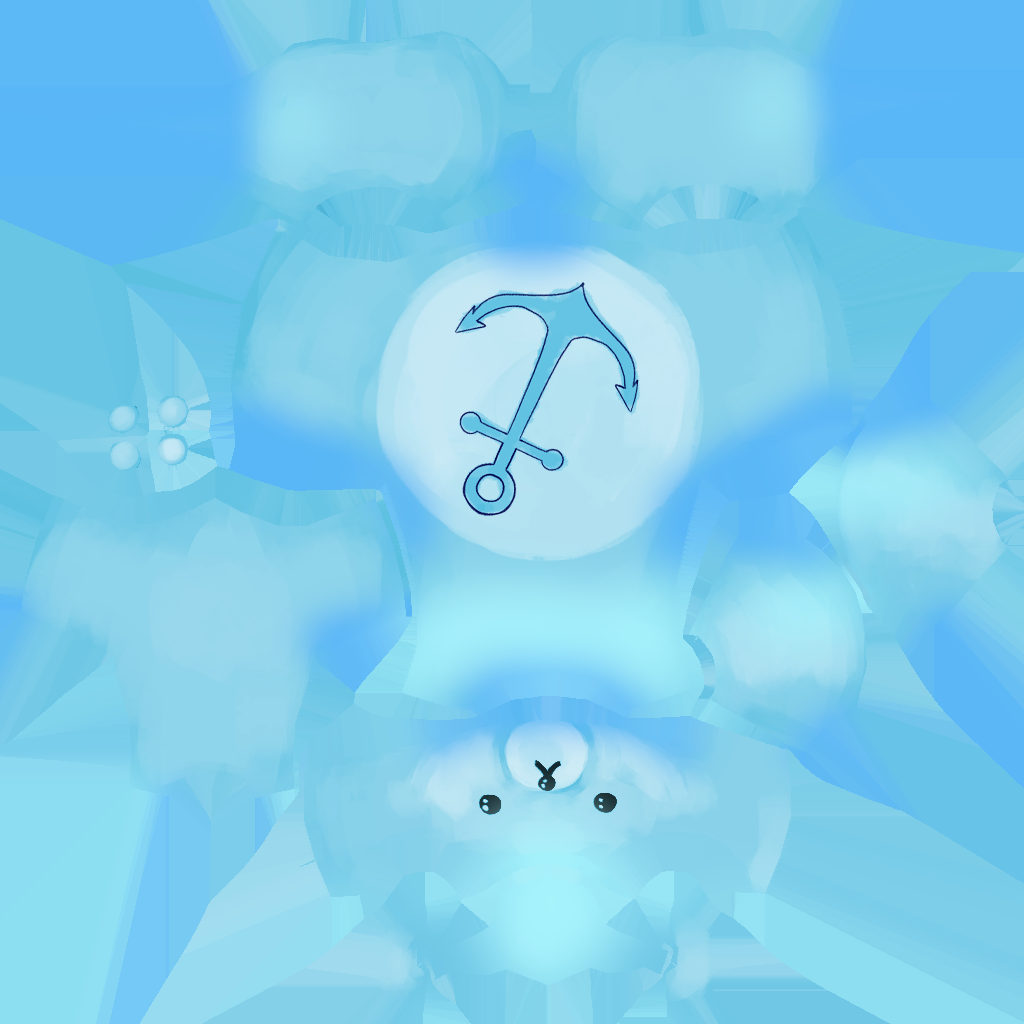
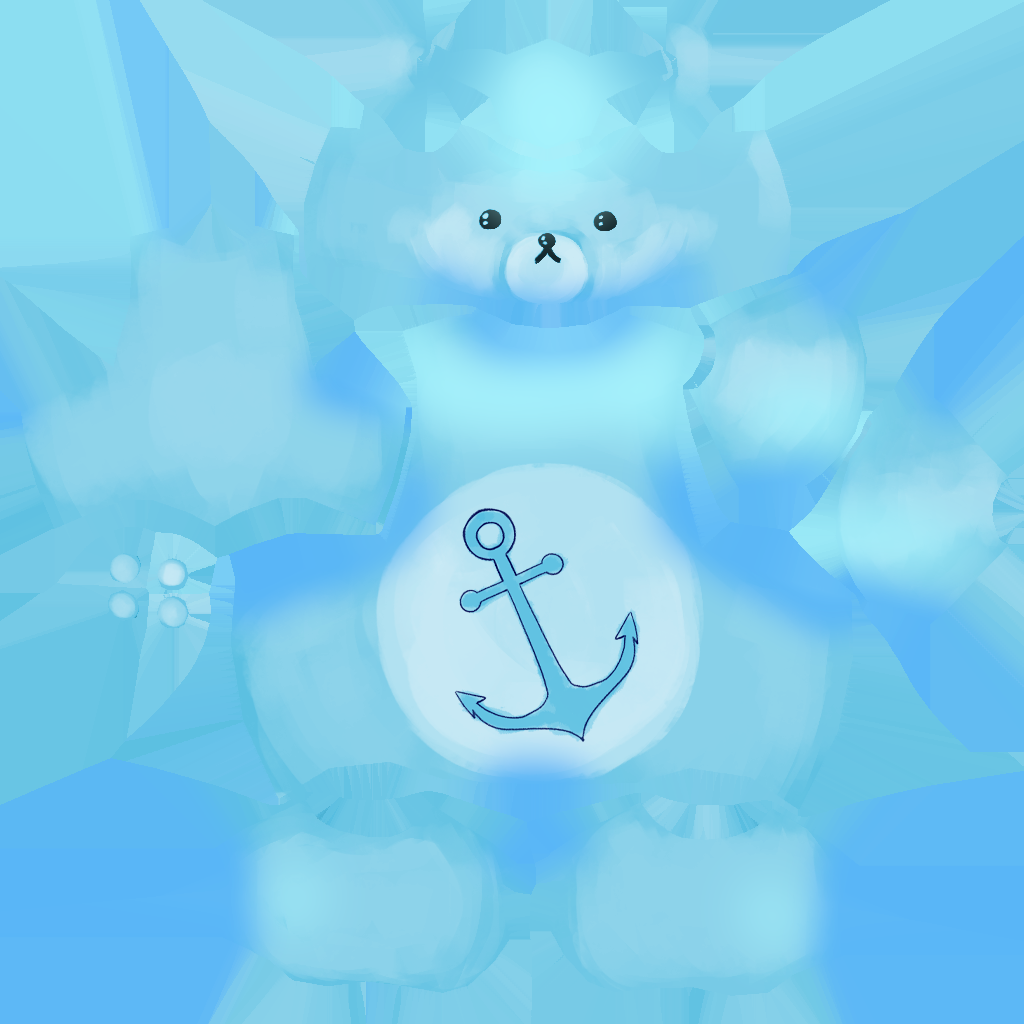
started lighting

diff --git a/engineOfRendering/Source.cpp b/engineOfRendering/Source.cpp
@@ -4,6 +4,7 @@
 #include "glm.hpp"
 #include "fstream"
 #include "sstream"
+#include <crtdbg.h>
 
 #include "OBJMesh.h"
 #include "camera.h"
@@ -18,6 +19,8 @@ using uint = unsigned int;
 
 int main()
 {
+
+	_CrtSetDbgFlag(_CRTDBG_ALLOC_MEM_DF | _CRTDBG_LEAK_CHECK_DF);
 	if(glfwInit() == false)
 	return -1;
 
@@ -48,31 +51,40 @@ int main()
 
 	printf("GL: %i.%i\n", major, minor);
 	//mesh data
-	Vertecies Vertex[] =
-	{ //            ---position---                          ---UV---
-		glm::vec3(-0.5f, 0.5f, 0.5f),	       glm::vec2 (0,0),  // 0
-		glm::vec3(0.5f, 0.5f, 0.5f),	   	   glm::vec2 (5,0), // 1
-		glm::vec3(-0.5f, -0.5f, 0.5f),       glm::vec2 (0,1),// 2
-		glm::vec3(0.5f, -0.5f, 0.5f),    	   glm::vec2 (1,1), // 3 
-		glm::vec3(-0.5f, 0.5f, -0.5f),       glm::vec2 (0,1),   // 4
-		glm::vec3(0.5f, 0.5f, -0.5f),        glm::vec2 (1,1),   // 5
-		glm::vec3(-0.5f, -0.5f, -0.5f),     glm::vec2 (0,0),// 6
-		glm::vec3(0.5f, -0.5f, -0.5f),       glm::vec2 (1,0)   // 7
+	std::vector<Vertex> corners =
+	{ //            ---position---        ---UV---         ---Normal---
+		{glm::vec3(-0.5f, 0.5f, 0.5f),	 glm::vec2(0,0), glm::vec3(0,0,1)},     // top left       - 0
+		{glm::vec3(0.5f, 0.5f, 0.5f),	 glm::vec2(2,0), glm::vec3(0,0,1)},     // top right      - 1
+		{glm::vec3(-0.5f, -0.5f, 0.5f),  glm::vec2(0,2), glm::vec3(0,0,1)},     // bottom left    - 2
+		{glm::vec3(0.5f, -0.5f, 0.5f) ,  glm::vec2(2,2), glm::vec3(0,0,1)},     // bottom right   - 3 
+		{glm::vec3(-0.5f, 0.5f, -0.5f),  glm::vec2(0,2), glm::vec3(0,0,1)},     // top left       - 4
+		{glm::vec3(0.5f, 0.5f, -0.5f),   glm::vec2(2,2), glm::vec3(0,0,1)},     // top right      - 5
+		{glm::vec3(-0.5f, -0.5f, -0.5f), glm::vec2(0,0), glm::vec3(0,0,1)},     // bottom left    - 6
+		{glm::vec3(0.5f, -0.5f, -0.5f),  glm::vec2(2,0), glm::vec3(0,0,1)}     // bottom right   - 7
 	};
-
-	Vertecies sunVertex[] =
+	/*
+	glm::vec3(0,0,0),
+	glm::vec3(0,0,0),
+	glm::vec3(0,0,0),
+	glm::vec3(0,0,0),
+	glm::vec3(0,0,0),
+	glm::vec3(0,0,0),
+	glm::vec3(0,0,0),
+	glm::vec3(0,0,0)
+	*/
+	std::vector<Vertex> sunVertex =
 	{
-		glm::vec3(0.75f, 0.95f, 0.75f),	glm::vec2(0,0),	  // 0
-		glm::vec3(0.95f, 0.95f, 0.75f),	glm::vec2(0,0),	  // 1
-		glm::vec3(0.75f, 0.75f, 0.75f),	glm::vec2(0,0),	 // 2
-		glm::vec3(0.95f, 0.75f, 0.75f),	glm::vec2(0,0),	 // 3 
-		glm::vec3(0.75f, 0.95f, 0.5f),	glm::vec2(0,0),	  // 4
-		glm::vec3(0.95f, 0.95f, 0.5f),	glm::vec2(0,0),	  // 5
-		glm::vec3(0.75f, 0.75f, 0.5f),	glm::vec2(0,0),	 // 6
-		glm::vec3(0.95f, 0.75f, 0.5f),	glm::vec2(0,0) 	 // 7 
+		{glm::vec3(0.95f, 0.95f, 0.75f), glm::vec2(0,0), glm::vec3(0,0,1)},	    // 1
+		{glm::vec3(0.75f, 0.95f, 0.75f), glm::vec2(0,0), glm::vec3(0,0,1)},     // 0
+		{glm::vec3(0.75f, 0.75f, 0.75f), glm::vec2(0,0), glm::vec3(0,0,1)},	    // 2
+		{glm::vec3(0.95f, 0.75f, 0.75f), glm::vec2(0,0), glm::vec3(0,0,1)},	    // 3 
+		{glm::vec3(0.75f, 0.95f, 0.5f),	 glm::vec2(0,0), glm::vec3(0,0,1)},	    // 4
+		{glm::vec3(0.95f, 0.95f, 0.5f),	 glm::vec2(0,0), glm::vec3(0,0,1)},	    // 5
+		{glm::vec3(0.75f, 0.75f, 0.5f),	 glm::vec2(0,0), glm::vec3(0,0,1)},	    // 6
+		{glm::vec3(0.95f, 0.75f, 0.5f),	 glm::vec2(0,0), glm::vec3(0,0,1)}      // 7 
 	};
-	int numberOfVerts = 6;
-	int indexBuffer[]{
+	int indexNumber = 6;
+	std::vector<int> indexBuffer{
 		0, 1, 2,
 		1, 3, 2
 		/*4, 6, 5,
@@ -91,23 +103,30 @@ int main()
 	swoleBear.load("..\\models\\swoleBear.obj");
 	
 	/*----------------------send info to the GPU-------------------*/
-	theMesh.meshSetUp(Vertex,numberOfVerts,indexBuffer);
+	theMesh.meshSetUp(corners,indexBuffer);
 
     
 
 	uint texture;
 	int width, height, n;
-	unsigned char* data = stbi_load("..\\images\\flower.jpg", &width, &height, &n, 0);
+	//finds the image
+	unsigned char* data = stbi_load("..\\images\\Shrek.png", &width, &height, &n, 0);
 	glGenTextures(1, &texture);
 	glBindTexture(GL_TEXTURE_2D, texture);
 	glTexImage2D(GL_TEXTURE_2D, 0, GL_RGB, width, height, 0, GL_RGB, GL_UNSIGNED_BYTE, data);
-
+	
 
 	glTexParameteri(GL_TEXTURE_2D, GL_TEXTURE_MAG_FILTER, GL_NEAREST); // GL_LINEAR SAMPLES texels
 	glTexParameteri(GL_TEXTURE_2D, GL_TEXTURE_MIN_FILTER, GL_NEAREST); // GL_NEARESTS RETURNS just closest pixel
-	
+	//sets the textures to mirrored repeat
+	glTexParameteri(GL_TEXTURE_2D, GL_TEXTURE_WRAP_S, GL_MIRRORED_REPEAT);
+	glTexParameteri(GL_TEXTURE_2D, GL_TEXTURE_WRAP_T, GL_MIRRORED_REPEAT);
+	//clears up memory
+	stbi_image_free(data);
+
 	uint texture2;
 	int width2, height2, n2;
+	//finds the image
 	unsigned char* data2 = stbi_load("..\\images\\Bear_Blue_Base_Color.png", &width2, &height2, &n2, 0);
 	glGenTextures(1, &texture2);
 	glBindTexture(GL_TEXTURE_2D, texture2);
@@ -116,12 +135,14 @@ int main()
 
 	glTexParameteri(GL_TEXTURE_2D, GL_TEXTURE_MAG_FILTER, GL_NEAREST); // GL_LINEAR SAMPLES texels
 	glTexParameteri(GL_TEXTURE_2D, GL_TEXTURE_MIN_FILTER, GL_NEAREST); // GL_NEARESTS RETURNS just closest pixel
+	//clears up memory
 	stbi_image_free(	data2);
 
+	//constructs the shaders
 	shaders.createVertexShader("..\\shaders\\simple_vertex.glsl");
 
 	shaders.createFragmentShader("..\\shaders\\simple_frag.glsl");
-
+	
 	shaders.linkShaderProgram();
 
 
@@ -145,22 +166,7 @@ int main()
 		deltaTime = currentFrame - lastFrame;
 		lastFrame = currentFrame;
 	
-		theFlyingCamera.update(deltaTime);
-	   
-	 
-	   glUseProgram(shaders.getShaderID());
-	   //rotates the object
-	   //model = glm::rotate(model, 0.016f, glm::vec3(0, 10, 0));
-
-	  //for colour changing properties
-		if (glfwGetKey(window,GLFW_KEY_SPACE) == GLFW_PRESS)
-		{
-			theLight.setColour(glm::vec3(0.0f, 1.0f, 0.5f));
-			//glClear(GL_COLOR_BUFFER_BIT | GL_DEPTH_BUFFER_BIT);	
-		}
 	   glm::vec4 color = glm::vec4(theLight.getColour(),1.0f);
-	   //--------------------END COLOUR CHANGING PROPERTIES-------------------------
-
 
 	   auto uniformLocation = glGetUniformLocation(shaders.getShaderID(), "objectColor");
 	   glUniform3fv(uniformLocation, 1, glm::value_ptr(glm::vec3(0.75f, 0.0f, 0.75f)));
@@ -172,16 +178,34 @@ int main()
 
 	   uniformLocation = glGetUniformLocation(shaders.getShaderID(), "model_matrix");
 	   glUniformMatrix4fv(uniformLocation, 1, false, glm::value_ptr(model));
-
 	   //sets the colour for the polygons drawn
 	   uniformLocation = glGetUniformLocation(shaders.getShaderID(), "color");
 	   glUniform4fv(uniformLocation, 1, glm::value_ptr(color));
+	   uniformLocation = glGetUniformLocation(shaders.getShaderID(), "normalMatrix");
+	   glUniformMatrix4fv(uniformLocation, 1, false, glm::value_ptr(glm::inverseTranspose(model)));
+
+	   theFlyingCamera.update(deltaTime);
+	   
+	 
+	   glUseProgram(shaders.getShaderID());
+	   //rotates the object
+	   //model = glm::rotate(model, 0.016f, glm::vec3(0, 10, 0));
+
+	  //for colour changing properties
+		if (glfwGetKey(window,GLFW_KEY_SPACE) == GLFW_PRESS)
+
+		{
+			theLight.setColour(glm::vec3(0.0f, 1.0f, 0.5f));
+			//glClear(GL_COLOR_BUFFER_BIT | GL_DEPTH_BUFFER_BIT);	
+		}
+	   //--------------------END COLOUR CHANGING PROPERTIES-------------------------
 
 
-	   glBindTexture(GL_TEXTURE_2D, texture);
-	   theMesh.drawCube(numberOfVerts);
-	   glBindTexture(GL_TEXTURE_2D, texture2);
-	   swoleBear.draw(false);
+
+	   glBindTexture(GL_TEXTURE_2D, texture); // sets the texture to draw
+	   theMesh.drawCube(indexNumber);// draws with texture set above
+	   glBindTexture(GL_TEXTURE_2D, texture2);//sets new texture to draw
+	   swoleBear.draw(false);//draws with new texture
 	   //glPolygonMode(GL_FRONT_AND_BACK, GL_LINE);
 	   glPolygonMode(GL_BACK, GL_FILL);
 	   uniformLocation = glGetUniformLocation(shaders.getShaderID(), "objectColor");

diff --git a/engineOfRendering/shaders.cpp b/engineOfRendering/shaders.cpp
@@ -19,8 +19,12 @@ void shaders::createVertexShader(std::string shaderPath)
 	glShaderSource(vertexShaderID, 1, (const GLchar**)&data, 0);
 	//build
 	glCompileShader(vertexShaderID);
-
-	errorCheck("Vertex");
+	GLint success = GL_FALSE;
+	glGetShaderiv(vertexShaderID, GL_COMPILE_STATUS, &success);
+	if (!success)
+	{
+		printErrorLog("Vertex");
+	}
 }
 
 void shaders::createFragmentShader(std::string shaderPath)
@@ -42,7 +46,12 @@ void shaders::createFragmentShader(std::string shaderPath)
 	glShaderSource(fragmentShaderID, 1, (const GLchar**)&data, 0);
 	//build
 	glCompileShader(fragmentShaderID);
-	errorCheck("Fragment");
+	GLint success = GL_FALSE;
+	glGetShaderiv(fragmentShaderID, GL_COMPILE_STATUS, &success);
+	if (!success)
+	{
+		printErrorLog("Fragment");
+	}
 }
 
 void shaders::linkShaderProgram()
@@ -54,29 +63,35 @@ void shaders::linkShaderProgram()
 	glAttachShader(shaderProgramID, fragmentShaderID);
 	//link both programs
 	glLinkProgram(shaderProgramID);
-	errorCheck("Linking");
-}
-void shaders::errorCheck(std::string shaderType)
-{
-	//did it work?
-	GLint success = GL_FALSE;
-	glGetShaderiv(vertexShaderID, GL_COMPILE_STATUS, &success);
+
+	//check compile status
+	GLint logLength = 0;
+	glGetProgramiv(shaderProgramID, GL_INFO_LOG_LENGTH, &logLength);
+	char* log = new char[logLength];
+
+	GLint success = 0;
+	glGetProgramiv(shaderProgramID, GL_LINK_STATUS, &success);
 	if (!success)
 	{
+		printErrorLog("Linking");
+	}
+}
+
+void shaders::printErrorLog(std::string shaderType)
+{
 		//get length of open GL error message
 		GLint logLength = 0;
-		glGetShaderiv(shaderProgramID, GL_INFO_LOG_LENGTH, &logLength);
+		glGetProgramiv(shaderProgramID, GL_INFO_LOG_LENGTH, &logLength);
 		//create new error buffer
 		char* log = new char[logLength];
-		//copy the error into the buffer
 		glGetProgramInfoLog(shaderProgramID, logLength, 0, log);
+		//copy the error into the buffer
 		//create error message
 		std::string errorMessage(log);
-		errorMessage += (shaderType + "failed to compile");
+		errorMessage += (shaderType + " failed to compile");
 		printf(errorMessage.c_str());
 		//clean up
 		delete[] log;
-	}
 }
 
 

diff --git a/engineOfRendering/mesh.cpp b/engineOfRendering/mesh.cpp
@@ -1,9 +1,5 @@
 #include "mesh.h"
 
-mesh::mesh()
-{
-
-}
 
 mesh::~mesh()
 {
@@ -12,7 +8,7 @@ mesh::~mesh()
 	glDeleteBuffers(1, &IBO);
 }
 
-void mesh::meshSetUp(Vertecies Vertecies[], int numberOfVerts, int indexBuffer[])
+void mesh::meshSetUp(std::vector<Vertex> Vertecies, std::vector<int> indexBuffer)
 {
 	glGenVertexArrays(1, &VAO);
 	glGenBuffers(1, &VBO);
@@ -20,15 +16,23 @@ void mesh::meshSetUp(Vertecies Vertecies[], int numberOfVerts, int indexBuffer[]
 
 	glBindVertexArray(VAO);
 	glBindBuffer(GL_ARRAY_BUFFER, VBO);
-	glBufferData(GL_ARRAY_BUFFER, 8 * sizeof(glm::vec3), Vertecies, GL_STATIC_DRAW);
+	glBufferData(GL_ARRAY_BUFFER, /*number or vertecies used*/ Vertecies.size() * sizeof(Vertex) , &Vertecies[0], GL_STATIC_DRAW);
+
 	glBindBuffer(GL_ELEMENT_ARRAY_BUFFER, IBO);
-	glBufferData(GL_ELEMENT_ARRAY_BUFFER, numberOfVerts * sizeof(int), indexBuffer, GL_STATIC_DRAW);
-
+	glBufferData(GL_ELEMENT_ARRAY_BUFFER, indexBuffer.size() * sizeof(int), &indexBuffer[0], GL_STATIC_DRAW);
+	
+	// Position
 	glEnableVertexAttribArray(0);
-	glVertexAttribPointer(0, 3, GL_FLOAT, GL_FALSE, 5 * sizeof(float), 0);
+	glVertexAttribPointer(0, 3, GL_FLOAT, GL_FALSE, sizeof(Vertex), 0);
 
+	// UV
 	glEnableVertexAttribArray(1);
-	glVertexAttribPointer(1, 3, GL_FLOAT, GL_FALSE, 5 * sizeof(float), (void*)(3* sizeof(float)));
+	glVertexAttribPointer(1, 2, GL_FLOAT, GL_FALSE, sizeof(Vertex), (void*)(3* sizeof(float)));
+
+	//enable third element as normal
+	glEnableVertexAttribArray(2);
+	glVertexAttribPointer(2, 3, GL_FLOAT, GL_TRUE, sizeof(Vertex), (void*)(5 * sizeof(float)));
+
 
 	glBindVertexArray(0);
 	glBindBuffer(GL_ELEMENT_ARRAY_BUFFER, 0);	

diff --git a/engineOfRendering/mesh.h b/engineOfRendering/mesh.h
@@ -3,19 +3,20 @@
 #include "glfw3.h"
 #include "ext.hpp"
 #include "glm.hpp"
+#include <vector>
 
-struct Vertecies
+struct Vertex
 {
 	glm::vec3 position;
 	glm::vec2 UV;
+	glm::vec3 normal;
 };
 
 class mesh
 {
 public:
-	void meshSetUp(Vertecies Vertex[], int numberOfVerts, int indexBuffer[]);
+	void meshSetUp(std::vector<Vertex> Vertex, std::vector<int> indexBuffer);
 
-	mesh();
 	~mesh();
 
 	unsigned int getVAO();

diff --git a/engineOfRendering/shaders.h b/engineOfRendering/shaders.h
@@ -16,7 +16,7 @@ public:
 	unsigned int getShaderID();
 private:
 	//makes sure thing work and displays error if it doesn't
-	void errorCheck(std::string shaderType);
+	void printErrorLog(std::string shaderType);
 	std::string shaderData;
 	//ID's for the various shaders
 	unsigned int vertexShaderID = 0;
